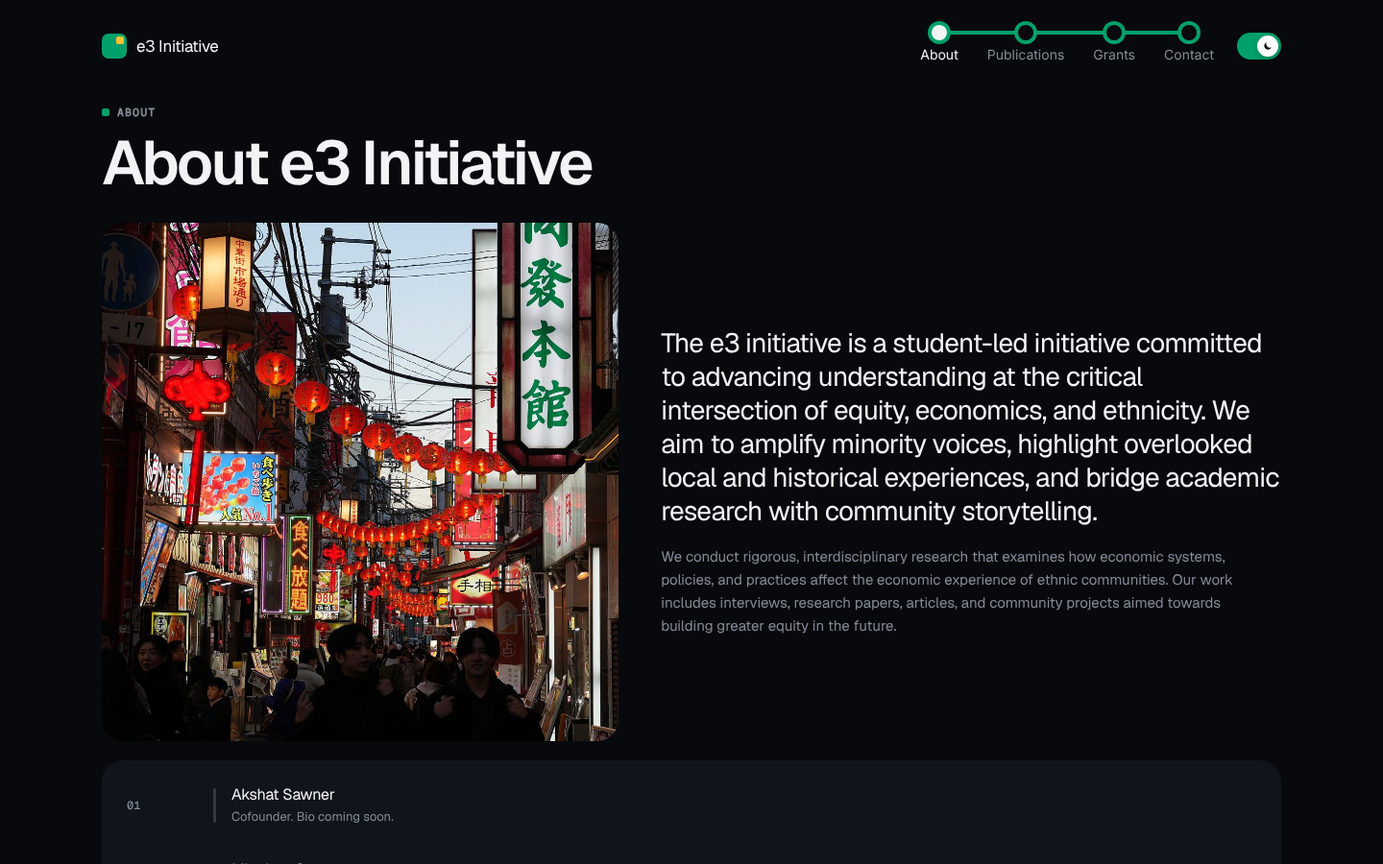
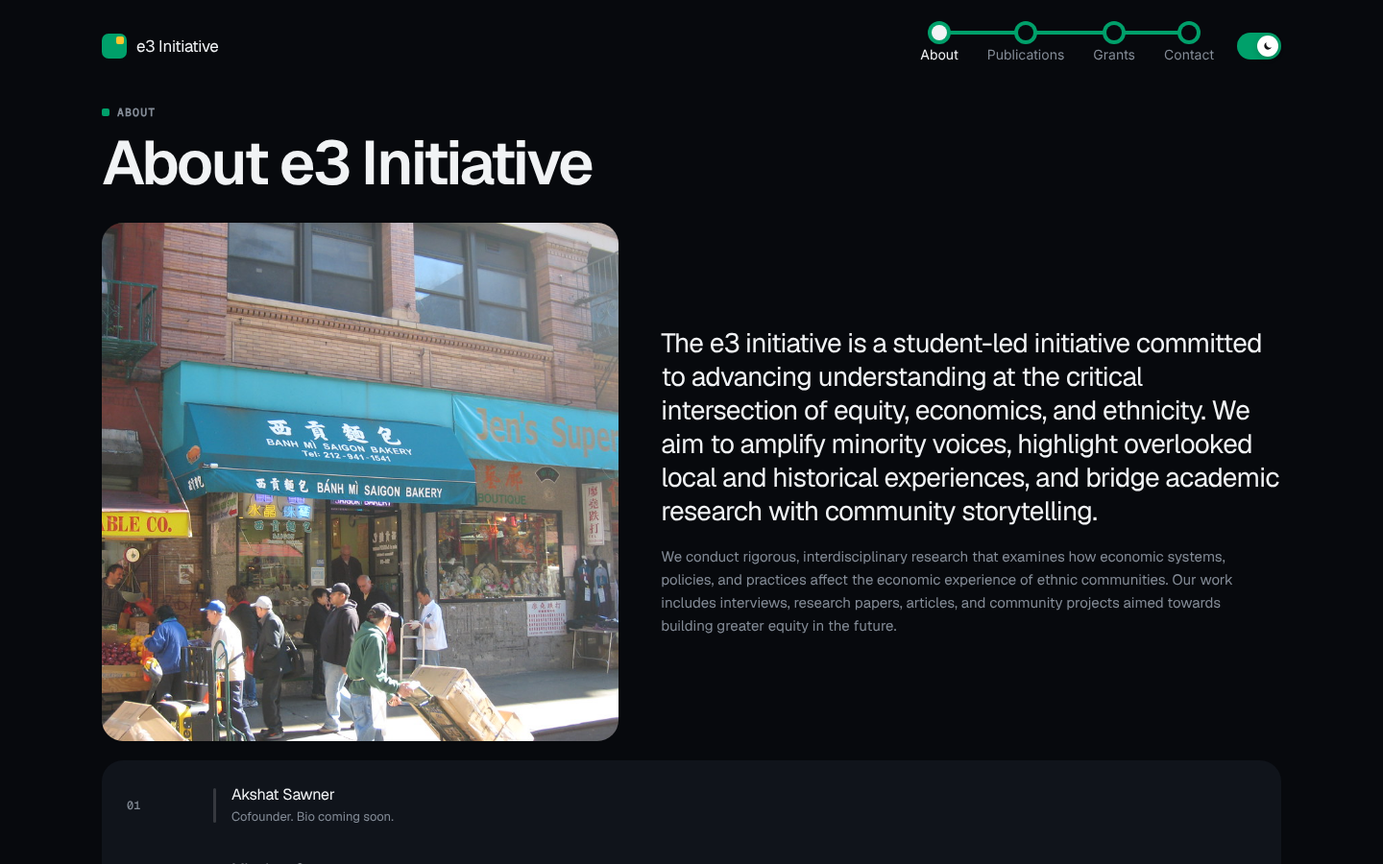
Mockups D: more online photos (Flickr CC via Openverse), credits
Claude-Session: https://claude.ai/code/session_011mp1weCWc4EXh1bK3ePj6e

Changed region(s): [[0.0625, 0.2489, 0.4688, 0.8711]]

diff --git a/mockups/site-d/minority-owned-business-grants.html b/mockups/site-d/minority-owned-business-grants.html
@@ -22,7 +22,7 @@
 <div class="ph"><div><div class="label "><i></i>Grant list</div><h1>Grants for Minority-Owned Businesses</h1><p>This list gathers 12 grants for founders and organizations from communities that have historically had less access to capital, including Black, Native American, Hispanic/Latino, and LGBTQ+ business owners. 2 are open now, 3 accept applications on a rolling basis, and 7 are closed for now. Many of the closed programs run every year, so they are worth tracking.</p></div><div></div></div><div class="tile rows rise"><a class="crow next" href="https://commerce.mt.gov/Business/Indian-Country/Indian-Country-Financial-Assistance/Tribal-Tourism-Small-Business-Grant"><span class="t">Nov 30</span><span class="m"></span><div><div class="n">Tribal Tourism Small Business Grant</div><div class=d>Montana Department of Commerce · Up to $10,000 per business (no match required)</div></div><span class="chip a">in 13d</span></a><a class="crow next" href="https://blackambitionprize.com/apply-now/"><span class="t">Annual</span><span class="m"></span><div><div class="n">Black Ambition Prize</div><div class=d>Black Ambition (founded by Pharrell Williams) · Up to $1,000,000 in prize funding across awardees</div></div><span class="chip a">Open</span></a><a class="crow" href="https://www.wkkf.org/grantseekers/"><span class="t">Rolling</span><span class="m"></span><div><div class="n">W.K. Kellogg Foundation Grants</div><div class=d>W.K. Kellogg Foundation · Varies (no fixed range)</div></div><span class="chip">Rolling</span></a><a class="crow" href="https://www.iamsogal.com/"><span class="t">Rolling</span><span class="m"></span><div><div class="n">SoGal Black Founder Startup Grant</div><div class=d>SoGal Foundation · $5,000 and $10,000 cash grants</div></div><span class="chip">Rolling</span></a><a class="crow" href="https://foundersfirstcdc.org/about-grants"><span class="t">Rolling</span><span class="m"></span><div><div class="n">Founders First Job Creators Quest Grant</div><div class=d>Founders First CDC · Cash award plus full-tuition accelerator scholarship</div></div><span class="chip">Rolling</span></a><a class="crow" href="https://galaxyofstars.org/galaxy-grants/"><span class="t">Jul 31</span><span class="m"></span><div><div class="n">Galaxy Grant</div><div class=d>Hidden Star · Grants typically $1,000 to $3,500 per cycle</div></div><span class="chip">Closed</span></a><a class="crow" href="https://nbmbaa.org/scale-up-pitch-challenge/"><span class="t">Annual</span><span class="m"></span><div><div class="n">Scale-Up Pitch Challenge</div><div class=d>National Black MBA Association · Up to $50,000</div></div><span class="chip">Closed</span></a><a class="crow" href="https://foundersfirstcdc.org/pride-grant"><span class="t">Annual</span><span class="m"></span><div><div class="n">National Pride Grant</div><div class=d>Founders First CDC · $1,000 grant plus accelerator program access (25 awardees)</div></div><span class="chip">Closed</span></a><a class="crow" href="https://www.nglcc.org/"><span class="t">Annual</span><span class="m"></span><div><div class="n">NGLCC Community Impact Grant Program</div><div class=d>National LGBT Chamber of Commerce and Grubhub Community Fund · $5,000 to $25,000 grants</div></div><span class="chip">Closed</span></a><a class="crow" href="https://www.firstpeoplesfund.org/programs/fellowships"><span class="t">Annual</span><span class="m"></span><div><div class="n">First Peoples Fund Artist in Business Leadership Fellowship</div><div class=d>First Peoples Fund · $10,000 fellowship grant plus year-long professional development</div></div><span class="chip">Closed</span></a><a class="crow" href="https://www.uschamberfoundation.org/solutions/corporate-citizenship/coalition-to-back-black-businesses"><span class="t">Annual</span><span class="m"></span><div><div class="n">Coalition to Back Black Businesses Grant</div><div class=d>U.S. Chamber of Commerce Foundation and American Express · $5,000 grants with select $25,000 enhancement grants</div></div><span class="chip">Closed</span></a><a class="crow" href="https://naacp.org/find-resources/grants/powershift-entrepreneur-grant"><span class="t">Annual</span><span class="m"></span><div><div class="n">NAACP Powershift Entrepreneur Grant</div><div class=d>NAACP · $25,000 per recipient, plus resources</div></div><span class="chip">Closed</span></a></div><p class="muted" style="margin-top:22px;font-size:14px">More lists: <a href="women-owned-business-grants.html" style="color:var(--ink)">Women-owned</a> · <a href="veteran-owned-business-grants.html" style="color:var(--ink)">Veteran-owned</a> · <a href="grants.html" style="color:var(--ink)">Search all 87</a></p>
   </main>
   <footer>
-    <span class="mono" style="font-size:11px;color:var(--muted)">© 2026 e3 Initiative · Photos: Wikimedia Commons</span>
+    <span class="mono" style="font-size:11px;color:var(--muted)">© 2026 e3 Initiative · Photos: Wikimedia Commons, Flickr (CC)</span>
     <nav class="links" aria-label="Footer"><a href="articles.html">Publications</a><a href="grants.html">Grant Finder</a><a href="grant-help.html">Grant Help</a><a href="economic-indicators.html">Indicators</a><a href="outreach.html">Outreach</a><a href="privacy.html">Privacy</a></nav>
   </footer>
 </div>

diff --git a/mockups/site-d/grant-help.html b/mockups/site-d/grant-help.html
@@ -25,7 +25,7 @@
   <details style="padding:16px 0;border-top:1px solid var(--line)"><summary class="label" style="cursor:pointer">Where to get free help</summary><div style="margin-top:8px"><a class="crow" href="https://www.sba.gov/counseling/local-assistance/"><span class="t">→</span><span class="m"></span><div><div class="n">SBA Local Assistance & SBDCs</div><div class=d>Small Business Development Centers offer free advising on funding, business plans, and grant readiness, in every state.</div></div><span class="chip">Find your local office</span></a><a class="crow" href="https://www.score.org/find-mentor"><span class="t">→</span><span class="m"></span><div><div class="n">SCORE</div><div class=d>Free, confidential mentoring from experienced business volunteers, including help reviewing grant applications. Online or in person.</div></div><span class="chip">Get a free mentor</span></a><a class="crow" href="https://www.sba.gov/counseling/local-assistance/resource-partners/#womens-centers"><span class="t">→</span><span class="m"></span><div><div class="n">Women's Business Centers</div><div class=d>SBA-funded centers that help women entrepreneurs with funding, training, and counseling at low or no cost.</div></div><span class="chip">Find a center</span></a><a class="crow" href="https://www.sba.gov/counseling/local-assistance/resource-partners/#veterans-business-outreach-centers"><span class="t">→</span><span class="m"></span><div><div class="n">Veterans Business Outreach Centers</div><div class=d>Free business and funding help for veterans, service members, and military spouses starting or growing a business.</div></div><span class="chip">Find a VBOC</span></a><a class="crow" href="https://www.mbda.gov/businesscenters"><span class="t">→</span><span class="m"></span><div><div class="n">MBDA Business Centers</div><div class=d>The Minority Business Development Agency helps minority-owned businesses access capital, contracts, and grant opportunities.</div></div><span class="chip">Find an MBDA center</span></a><a class="crow" href="https://www.grants.gov/support"><span class="t">→</span><span class="m"></span><div><div class="n">Grants.gov Support</div><div class=d>The federal grants portal. Its support desk answers questions about applying for federal grants: call 1-800-518-4726 or email support@grants.gov.</div></div><span class="chip">Grants.gov help</span></a><a class="crow" href="https://candid.org/find-us"><span class="t">→</span><span class="m"></span><div><div class="n">Candid (Foundation Directory)</div><div class=d>The go-to research tool for nonprofit grants and foundations. Use it free at a nearby Funding Information Network library.</div></div><span class="chip">Find free access</span></a><a class="crow" href="https://211.org/"><span class="t">→</span><span class="m"></span><div><div class="n">Dial 211 (United Way)</div><div class=d>A free, confidential helpline that connects you to local programs, financial assistance, and community resources. Call or text 211.</div></div><span class="chip">Visit 211.org</span></a></div><p class="muted" style="font-size:12px;line-height:1.6;margin-top:14px;max-width:80ch">The information on this page is general guidance, not professional, legal, or financial advice. Program details and contact information change: confirm specifics with each organization directly before relying on them.</p></details></div>
   </main>
   <footer>
-    <span class="mono" style="font-size:11px;color:var(--muted)">© 2026 e3 Initiative · Photos: Wikimedia Commons</span>
+    <span class="mono" style="font-size:11px;color:var(--muted)">© 2026 e3 Initiative · Photos: Wikimedia Commons, Flickr (CC)</span>
     <nav class="links" aria-label="Footer"><a href="articles.html">Publications</a><a href="grants.html">Grant Finder</a><a href="grant-help.html">Grant Help</a><a href="economic-indicators.html">Indicators</a><a href="outreach.html">Outreach</a><a href="privacy.html">Privacy</a></nav>
   </footer>
 </div>

diff --git a/mockups/site-d/women-owned-business-grants.html b/mockups/site-d/women-owned-business-grants.html
@@ -22,7 +22,7 @@
 <div class="ph"><div><div class="label "><i></i>Grant list</div><h1>Grants for Women-Owned Businesses</h1><p>This list gathers 8 grants for women entrepreneurs and women-led organizations, from monthly micro-grants to awards of up to $100,000. 3 accept applications on a rolling basis, and 5 are closed for now. Many of the closed programs run every year, so they are worth tracking.</p></div><div></div></div><div class="tile rows rise"><a class="crow" href="https://ambergrantsforwomen.com/get-an-amber-grant/"><span class="t">Rolling</span><span class="m"></span><div><div class="n">Amber Grant for Women</div><div class=d>WomensNet · $10,000 monthly, plus $50,000 year-end</div></div><span class="chip">Rolling</span></a><a class="crow" href="https://www.ifundwomen.com/grants/apply-for-grants"><span class="t">Rolling</span><span class="m"></span><div><div class="n">IFundWomen Universal Grant Application</div><div class=d>IFundWomen (powered by Honeycomb Credit) · $1,000-$25,000</div></div><span class="chip">Rolling</span></a><a class="crow" href="https://www.hersuitespot.com/herrise/"><span class="t">Rolling</span><span class="m"></span><div><div class="n">HerRise MicroGrant</div><div class=d>Yva Jourdan Foundation / HerSuiteSpot · $1,000 monthly</div></div><span class="chip">Rolling</span></a><a class="crow" href="https://www.cartierwomensinitiative.com/regional-awards"><span class="t">Jun 16</span><span class="m"></span><div><div class="n">Cartier Women&#x27;s Initiative Awards</div><div class=d>Cartier · $30,000 to $100,000 grants</div></div><span class="chip">Closed</span></a><a class="crow" href="https://marykayashfoundation.org/what-we-do/domestic-violence/grant-information/"><span class="t">Annual</span><span class="m"></span><div><div class="n">Mary Kay Ash Foundation Domestic Violence Shelter Grant</div><div class=d>The Mary Kay Ash Foundation · $20,000</div></div><span class="chip">Closed</span></a><a class="crow" href="https://www.toryburchfoundation.org/fellows/"><span class="t">Annual</span><span class="m"></span><div><div class="n">Tory Burch Foundation Fellows Program</div><div class=d>Tory Burch Foundation · $5,000 business education grant plus a one-year fellowship</div></div><span class="chip">Closed</span></a><a class="crow" href="https://twu.edu/center-women-entrepreneurs/texas-rural-grant/"><span class="t">Annual</span><span class="m"></span><div><div class="n">Texas Rural Grant</div><div class=d>Texas Woman&#x27;s University, Center for Women Entrepreneurs · 10 grants of $10,000 each ($100,000 total)</div></div><span class="chip">Closed</span></a><a class="crow" href="https://usnewsroom.bmo.com/2026-03-30-BMO-Celebrating-Women-Grant-Program-Now-Accepting-2026-Applications"><span class="t">Annual</span><span class="m"></span><div><div class="n">BMO Celebrating Women Grant Program (U.S.)</div><div class=d>BMO (in collaboration with Deloitte) · 15 grants of $10,000 each ($150,000 total)</div></div><span class="chip">Closed</span></a></div><p class="muted" style="margin-top:22px;font-size:14px">More lists: <a href="minority-owned-business-grants.html" style="color:var(--ink)">Minority-owned</a> · <a href="veteran-owned-business-grants.html" style="color:var(--ink)">Veteran-owned</a> · <a href="grants.html" style="color:var(--ink)">Search all 87</a></p>
   </main>
   <footer>
-    <span class="mono" style="font-size:11px;color:var(--muted)">© 2026 e3 Initiative · Photos: Wikimedia Commons</span>
+    <span class="mono" style="font-size:11px;color:var(--muted)">© 2026 e3 Initiative · Photos: Wikimedia Commons, Flickr (CC)</span>
     <nav class="links" aria-label="Footer"><a href="articles.html">Publications</a><a href="grants.html">Grant Finder</a><a href="grant-help.html">Grant Help</a><a href="economic-indicators.html">Indicators</a><a href="outreach.html">Outreach</a><a href="privacy.html">Privacy</a></nav>
   </footer>
 </div>

diff --git a/mockups/site-d/veteran-owned-business-grants.html b/mockups/site-d/veteran-owned-business-grants.html
@@ -22,7 +22,7 @@
 <div class="ph"><div><div class="label "><i></i>Grant list</div><h1>Grants for Veteran-Owned Businesses</h1><p>This list gathers 6 grants for veteran and military-spouse entrepreneurs, plus nonprofits that serve veterans and their families. 1 is open now, 2 accept applications on a rolling basis, and 3 are closed for now. Many of the closed programs run every year, so they are worth tracking.</p></div><div></div></div><div class="tile rows rise"><a class="crow next" href="https://www.hiringourheroes.org/small-business-grant/rules/"><span class="t">Dec 15</span><span class="m"></span><div><div class="n">2027 Heroes Small Business Grant Program</div><div class=d>Hiring Our Heroes (U.S. Chamber of Commerce Foundation) · Four $10,000 grants and one $25,000 grand prize</div></div><span class="chip a">in 28d</span></a><a class="crow" href="https://corporate.homedepot.com/page/veteran-housing-grants"><span class="t">Rolling</span><span class="m"></span><div><div class="n">Veteran Housing Grants Program</div><div class=d>The Home Depot Foundation · $100,000–$500,000</div></div><span class="chip">Rolling</span></a><a class="crow" href="https://bobwoodrufffoundation.org/our-partners/veteran-serving-organizations/grants-for-organizations/"><span class="t">Rolling</span><span class="m"></span><div><div class="n">Grants for Organizations (Charitable Investments Program)</div><div class=d>Bob Woodruff Foundation · $5,000–$500,000 (avg ~$100,000)</div></div><span class="chip">Rolling</span></a><a class="crow" href="https://foundersfirstcdc.org/stephen-tadlock"><span class="t">Oct 22</span><span class="m"></span><div><div class="n">Kenneth B. and Stephen L. Tadlock Veteran Business Grant</div><div class=d>Founders First CDC · $1,000 micro-grant (25 finalists; $25,000 total fund)</div></div><span class="chip">Closed</span></a><a class="crow" href="https://secondservicefoundation.org/"><span class="t">Annual</span><span class="m"></span><div><div class="n">Military Entrepreneur Challenge</div><div class=d>Second Service Foundation · $4,000-$15,000</div></div><span class="chip">Closed</span></a><a class="crow" href="https://secondservicefoundation.org/"><span class="t">Annual</span><span class="m"></span><div><div class="n">StreetShares Foundation Veteran Small Business Award</div><div class=d>Second Service Foundation (StreetShares Foundation) · $4,000 to $15,000 grants</div></div><span class="chip">Closed</span></a></div><p class="muted" style="margin-top:22px;font-size:14px">More lists: <a href="minority-owned-business-grants.html" style="color:var(--ink)">Minority-owned</a> · <a href="women-owned-business-grants.html" style="color:var(--ink)">Women-owned</a> · <a href="grants.html" style="color:var(--ink)">Search all 87</a></p>
   </main>
   <footer>
-    <span class="mono" style="font-size:11px;color:var(--muted)">© 2026 e3 Initiative · Photos: Wikimedia Commons</span>
+    <span class="mono" style="font-size:11px;color:var(--muted)">© 2026 e3 Initiative · Photos: Wikimedia Commons, Flickr (CC)</span>
     <nav class="links" aria-label="Footer"><a href="articles.html">Publications</a><a href="grants.html">Grant Finder</a><a href="grant-help.html">Grant Help</a><a href="economic-indicators.html">Indicators</a><a href="outreach.html">Outreach</a><a href="privacy.html">Privacy</a></nav>
   </footer>
 </div>

diff --git a/mockups/site-d/privacy.html b/mockups/site-d/privacy.html
@@ -22,7 +22,7 @@
 <div class="ph"><div><div class="label "><i></i>Legal</div><h1>Privacy Policy</h1><p>The e3 Initiative is a small research organization. This page explains what information this website collects, why, and the choices you have.</p></div><div><span class="chip">Updated Nov 12, 2026</span></div></div><article class="tile atile rise" style="max-width:820px"><div class="prose"><h2>Information we collect</h2><h3>Contact form</h3><p>If you send us a message, we receive the name, email address, subject and message you enter. We use them only to reply to you. The form is delivered by <a href="https://formsubmit.co/">FormSubmit</a>, a third-party service, which processes your submission in order to email it to us.</p><h3>Analytics</h3><p>We use two analytics tools to understand which pages are read and how people find us:</p><ul><li>Google Analytics 4, which sets cookies and records page views, approximate location, device and browser information. See <a href="https://policies.google.com/privacy">Google's privacy policy</a>.</li><li>Umami, a privacy-focused analytics tool we host ourselves. It records page views and basic device information without tracking you across other websites.</li></ul><p>We do not use analytics data to identify individual visitors, and we do not sell it.</p><h3>Settings saved in your browser</h3><p>When you change the theme or text size, your choice is saved in your browser's local storage so it persists between visits. It stays on your device and is never sent to us.</p><h3>Hosting logs</h3><p>The site is hosted on Vercel, which keeps standard server logs (such as IP address, requested page and time) for security and operations.</p><h2>Third-party content</h2><p>Pages load fonts from Google Fonts and some images from Unsplash. Your browser contacts those services directly when it loads those files, so they may receive your IP address and browser details.</p><h2>Your choices</h2><ul><li>You can block or delete cookies in your browser settings, or install the <a href="https://tools.google.com/dlpage/gaoptout">Google Analytics opt-out add-on</a>. The site works normally either way.</li><li>You can ask us to delete any message you sent through the contact form.</li></ul><h2>Children</h2><p>This site is not directed at children under 13, and we do not knowingly collect their personal information.</p><h2>Changes to this policy</h2><p>If we change how the site handles data, we will update this page and the date above.</p><h2>Questions</h2><p>For privacy questions or deletion requests, please use our <a href="contact.html">contact form</a>.</p></div></article>
   </main>
   <footer>
-    <span class="mono" style="font-size:11px;color:var(--muted)">© 2026 e3 Initiative · Photos: Wikimedia Commons</span>
+    <span class="mono" style="font-size:11px;color:var(--muted)">© 2026 e3 Initiative · Photos: Wikimedia Commons, Flickr (CC)</span>
     <nav class="links" aria-label="Footer"><a href="articles.html">Publications</a><a href="grants.html">Grant Finder</a><a href="grant-help.html">Grant Help</a><a href="economic-indicators.html">Indicators</a><a href="outreach.html">Outreach</a><a href="privacy.html">Privacy</a></nav>
   </footer>
 </div>

diff --git a/mockups/site-d/about.html b/mockups/site-d/about.html
@@ -20,12 +20,12 @@
   </header>
   <main id="main">
 <div class="ph"><div><div class="label "><i></i>About</div><h1>About e3 Initiative</h1></div><div></div></div>
-<div class="abt"><div class="abimg rise"><img src="../shared/img/web/yoko.jpg" alt="A narrow lantern-lit street in Chinatown" loading="lazy"></div>
+<div class="abt"><div class="abimg rise"><img src="../shared/img/web/bakery.jpg" alt="Customers outside a bakery and produce stand in Chinatown" loading="lazy"></div>
 <div class="abtx"><p style="font-weight:400;font-size:28px;line-height:1.25;letter-spacing:-.7px">The e3 initiative is a student-led initiative committed to advancing understanding at the critical intersection of equity, economics, and ethnicity. We aim to amplify minority voices, highlight overlooked local and historical experiences, and bridge academic research with community storytelling.</p><p class="muted" style="font-size:15px;line-height:1.6;margin-top:18px;max-width:60ch">We conduct rigorous, interdisciplinary research that examines how economic systems, policies, and practices affect the economic experience of ethnic communities. Our work includes interviews, research papers, articles, and community projects aimed towards building greater equity in the future.</p></div></div>
 <section style="margin-top:20px"><div class="tile rows rise"><div class="crow"><span class="t">01</span><span class="m"></span><div><div class="n">Akshat Sawner</div><div class=d>Cofounder. Bio coming soon.</div></div></div><div class="crow"><span class="t">02</span><span class="m"></span><div><div class="n">Minghao Gu</div><div class=d>Cofounder. Minghao is a junior at Solon High School. He plans to double major in ethnic studies/anthropology and economics in college. He was a former intern at Pasquines writing articles before leaving to start the e3 initiative.</div></div></div><div class="crow"><span class="t">03</span><span class="m"></span><div><div class="n">Vikram Sakthi Manikandan</div><div class=d>Outreach director. Vikram Sakthi Manikandan is a junior at Solon High School with an interest in finance and data science. He has developed his analytical skills through rigorous coursework and extracurriculars. As an experienced volunteer coordinator and intern at Cleveland Clinic, Vikram is now looking to utilize his background to drive meaningful community impact through this initiative.</div></div></div></div></section>
   </main>
   <footer>
-    <span class="mono" style="font-size:11px;color:var(--muted)">© 2026 e3 Initiative · Photos: Wikimedia Commons</span>
+    <span class="mono" style="font-size:11px;color:var(--muted)">© 2026 e3 Initiative · Photos: Wikimedia Commons, Flickr (CC)</span>
     <nav class="links" aria-label="Footer"><a href="articles.html">Publications</a><a href="grants.html">Grant Finder</a><a href="grant-help.html">Grant Help</a><a href="economic-indicators.html">Indicators</a><a href="outreach.html">Outreach</a><a href="privacy.html">Privacy</a></nav>
   </footer>
 </div>

diff --git a/mockups/site-d/research.html b/mockups/site-d/research.html
@@ -23,7 +23,7 @@
       <div class="pmeta"><span class="chip">Research paper</span><span class="mono">Mar 11 · 8 min</span></div><h3>Beyond Restaurants and Boba Cafes: The Historical and Modern Economic Solidarity of Chinatown</h3><p class="muted">Minghao Gu</p></a></div><section><div class="shead"><h2>Also in Publications</h2></div><div class="grid"><a class="tile pad rise c6" href="journals.html"><div class="label "><i></i>Journals</div><p style="font-weight:300;font-size:24px;letter-spacing:-.5px;margin-top:12px">Critical Debates in Humanities, Science and Global Justice →</p></a><a class="tile pad rise c6" href="economic-indicators.html"><div class="label "><i></i>Data</div><p style="font-weight:300;font-size:24px;letter-spacing:-.5px;margin-top:12px">Economic indicators since 2000 →</p></a></div></section>
   </main>
   <footer>
-    <span class="mono" style="font-size:11px;color:var(--muted)">© 2026 e3 Initiative · Photos: Wikimedia Commons</span>
+    <span class="mono" style="font-size:11px;color:var(--muted)">© 2026 e3 Initiative · Photos: Wikimedia Commons, Flickr (CC)</span>
     <nav class="links" aria-label="Footer"><a href="articles.html">Publications</a><a href="grants.html">Grant Finder</a><a href="grant-help.html">Grant Help</a><a href="economic-indicators.html">Indicators</a><a href="outreach.html">Outreach</a><a href="privacy.html">Privacy</a></nav>
   </footer>
 </div>

diff --git a/mockups/site-d/journals.html b/mockups/site-d/journals.html
@@ -24,7 +24,7 @@
 <div><div class="label "><i></i>Journal</div><div style="font-weight:300;font-size:36px;letter-spacing:-1px;line-height:1.1;margin-top:14px;max-width:18ch">Critical Debates in Humanities, Science and Global Justice</div><p class="muted" style="margin-top:10px;font-size:14px">Entries coming soon.</p></div></div>
   </main>
   <footer>
-    <span class="mono" style="font-size:11px;color:var(--muted)">© 2026 e3 Initiative · Photos: Wikimedia Commons</span>
+    <span class="mono" style="font-size:11px;color:var(--muted)">© 2026 e3 Initiative · Photos: Wikimedia Commons, Flickr (CC)</span>
     <nav class="links" aria-label="Footer"><a href="articles.html">Publications</a><a href="grants.html">Grant Finder</a><a href="grant-help.html">Grant Help</a><a href="economic-indicators.html">Indicators</a><a href="outreach.html">Outreach</a><a href="privacy.html">Privacy</a></nav>
   </footer>
 </div>

diff --git a/mockups/site-d/articles.html b/mockups/site-d/articles.html
@@ -25,7 +25,7 @@
       <div class="pmeta"><span class="chip">Article</span><span class="mono">Feb 02 · 4 min</span></div><h3>Beyond Restaurants, Boba Cafes, and Souvenir Shops: The Historical and Modern Economic Solidarity of Chinatown</h3><p class="muted">Minghao Gu</p></a></div>
   </main>
   <footer>
-    <span class="mono" style="font-size:11px;color:var(--muted)">© 2026 e3 Initiative · Photos: Wikimedia Commons</span>
+    <span class="mono" style="font-size:11px;color:var(--muted)">© 2026 e3 Initiative · Photos: Wikimedia Commons, Flickr (CC)</span>
     <nav class="links" aria-label="Footer"><a href="articles.html">Publications</a><a href="grants.html">Grant Finder</a><a href="grant-help.html">Grant Help</a><a href="economic-indicators.html">Indicators</a><a href="outreach.html">Outreach</a><a href="privacy.html">Privacy</a></nav>
   </footer>
 </div>

diff --git a/mockups/site-d/economic-indicators.html b/mockups/site-d/economic-indicators.html
@@ -65,7 +65,7 @@
 <div style="text-align:center;margin-top:24px"><button class="btn ghost" id="moreb" onclick="document.querySelectorAll('.ind.more').forEach(e=>e.hidden=false);this.remove()">Show all 8 indicators</button></div>
   </main>
   <footer>
-    <span class="mono" style="font-size:11px;color:var(--muted)">© 2026 e3 Initiative · Photos: Wikimedia Commons</span>
+    <span class="mono" style="font-size:11px;color:var(--muted)">© 2026 e3 Initiative · Photos: Wikimedia Commons, Flickr (CC)</span>
     <nav class="links" aria-label="Footer"><a href="articles.html">Publications</a><a href="grants.html">Grant Finder</a><a href="grant-help.html">Grant Help</a><a href="economic-indicators.html">Indicators</a><a href="outreach.html">Outreach</a><a href="privacy.html">Privacy</a></nav>
   </footer>
 </div>

diff --git a/mockups/site-d/404.html b/mockups/site-d/404.html
@@ -25,7 +25,7 @@
     <div class="cta"><a class="btn" href="index.html">Go home</a><a class="btn ghost" href="articles.html">Publications</a></div></div>
   </main>
   <footer>
-    <span class="mono" style="font-size:11px;color:var(--muted)">© 2026 e3 Initiative · Photos: Wikimedia Commons</span>
+    <span class="mono" style="font-size:11px;color:var(--muted)">© 2026 e3 Initiative · Photos: Wikimedia Commons, Flickr (CC)</span>
     <nav class="links" aria-label="Footer"><a href="articles.html">Publications</a><a href="grants.html">Grant Finder</a><a href="grant-help.html">Grant Help</a><a href="economic-indicators.html">Indicators</a><a href="outreach.html">Outreach</a><a href="privacy.html">Privacy</a></nav>
   </footer>
 </div>

diff --git a/mockups/site-d/outreach.html b/mockups/site-d/outreach.html
@@ -26,7 +26,7 @@
           <a class="btn" href="contact.html" style="align-self:flex-start;margin-top:24px">Partner with us →</a></div></div>
   </main>
   <footer>
-    <span class="mono" style="font-size:11px;color:var(--muted)">© 2026 e3 Initiative · Photos: Wikimedia Commons</span>
+    <span class="mono" style="font-size:11px;color:var(--muted)">© 2026 e3 Initiative · Photos: Wikimedia Commons, Flickr (CC)</span>
     <nav class="links" aria-label="Footer"><a href="articles.html">Publications</a><a href="grants.html">Grant Finder</a><a href="grant-help.html">Grant Help</a><a href="economic-indicators.html">Indicators</a><a href="outreach.html">Outreach</a><a href="privacy.html">Privacy</a></nav>
   </footer>
 </div>
